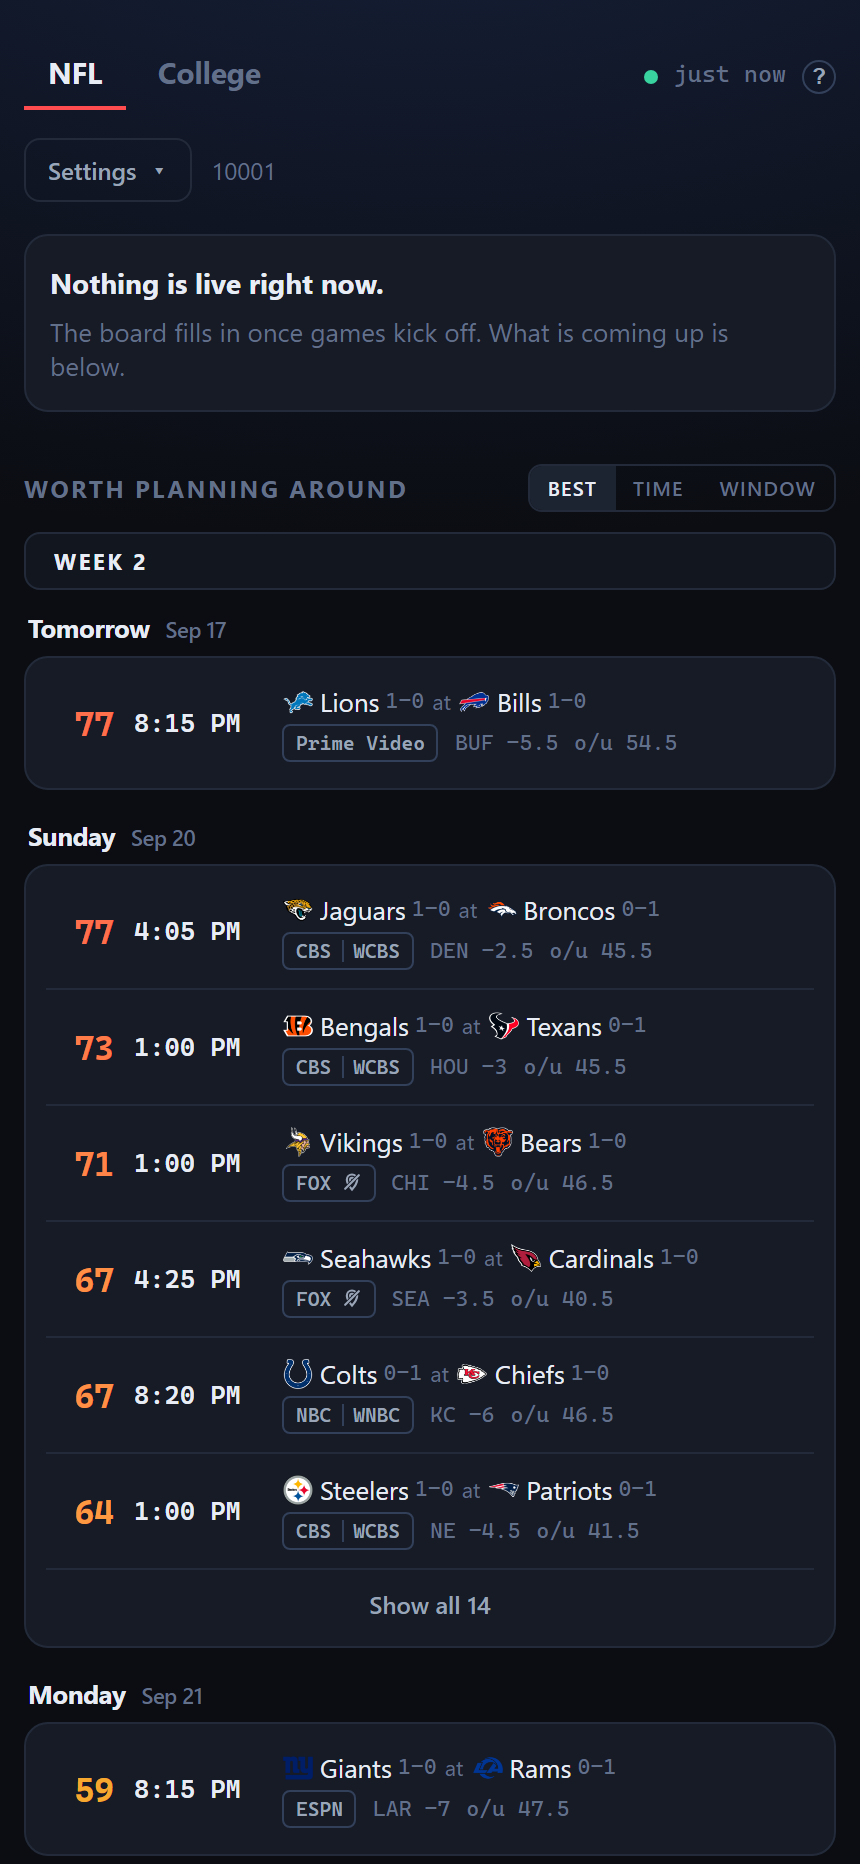
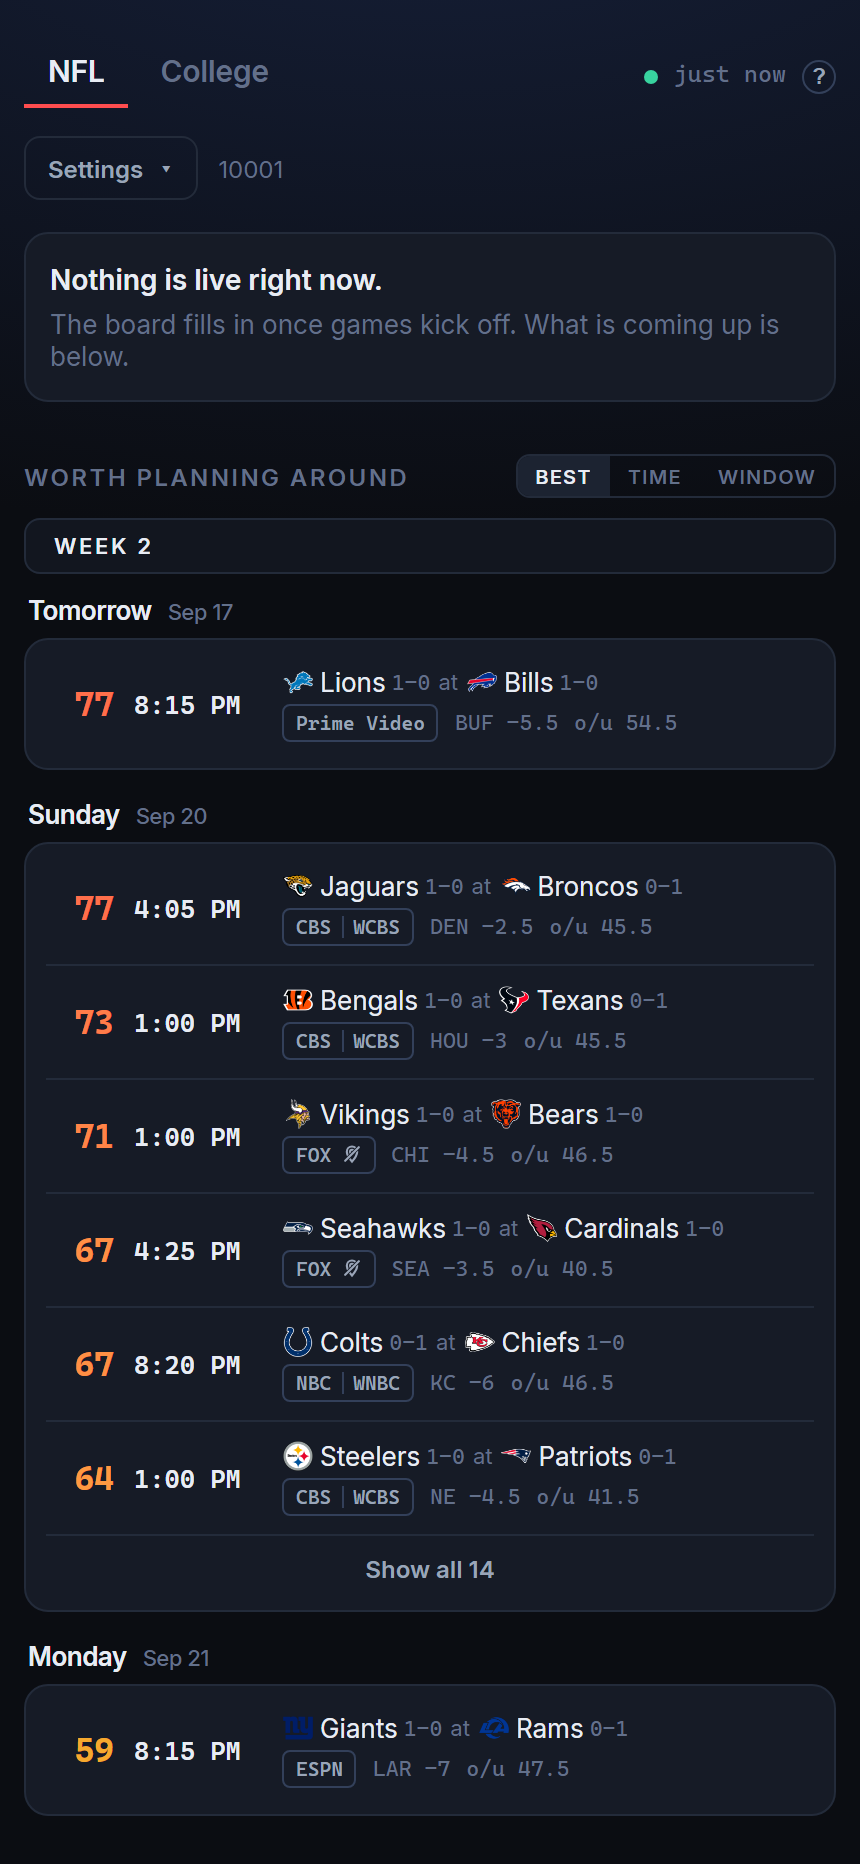
Head the live games with their week's band

diff --git a/src/App.svelte b/src/App.svelte
@@ -1,5 +1,5 @@
 <script lang="ts">
-  import type { Game, League, Snapshot } from "../shared/types";
+  import type { Game, League, Snapshot, WeekInfo } from "../shared/types";
   import { WEIGHTS, combine } from "../shared/weights";
   import { fetchSnapshot, openBoardStream } from "./lib/api";
   import { dayDate, dayKey, dayLabel, relativeTime, scoreColor } from "./lib/format";
@@ -693,6 +693,13 @@
    * control that reorders nothing is a control that has to be explained.
    */
   const windowsOffered = $derived(upcomingByDay.some((day) => day.windows !== null));
+
+  /* The week of what is live, which heads the board while it is on. Only then:
+     above "Nothing is live" the band headed nothing and sat apart from the games
+     it named, so with nothing on it stays with the planning list's first day.
+     Micah: "otherwise it's kind of disconnected from the important content". */
+  const currentWeek = $derived(live[0]?.week ?? null);
+  const currentWeekInfo = $derived(currentWeek ? snapshot?.weeks?.[currentWeek] : undefined);
   /* Chosen once and then the slate moved on. The preference is kept, so it comes
      back on its own next Sunday, but the list has to render as something today. */
   const groupByWindow = $derived(prefs.upcomingOrder === "window" && windowsOffered);
@@ -804,6 +811,22 @@
   <p class="empty">Loading the slate...</p>
 {/if}
 
+{#snippet weekBand(info: WeekInfo, where: "top" | "first" | "later")}
+  <div class="week-band" class:top={where === "top"} class:first={where === "first"}>
+    <span class="week-name">{info.label}</span>
+    {#if info.byes.length > 0}
+      <span class="byes">{info.byeLabel}<span class="mono">{info.byes.join(" ")}</span></span>
+    {/if}
+  </div>
+{/snippet}
+
+<!-- The week of the live games, above them, since its byes matter most while that
+     week's games are on. The planning list marks the weeks after it, where one
+     ends and the next begins. -->
+{#if currentWeekInfo}
+  {@render weekBand(currentWeekInfo, "top")}
+{/if}
+
 {#if top}
   <section class="hero">
     <div class="hero-label">
@@ -896,18 +919,13 @@
       </h2>
       {#each upcomingByDay as day, i (day.key)}
         {@const week =
-          day.week !== null && day.week !== upcomingByDay[i - 1]?.week
+          day.week !== null && day.week !== (i === 0 ? currentWeek : upcomingByDay[i - 1].week)
             ? snapshot?.weeks?.[day.week]
             : undefined}
-        <!-- Above the week's first day still to come, so once Thursday night has
-             kicked off it moves down to Sunday with the rest of the week. -->
+        <!-- Where a new week starts. The week the board is already in has its band
+             at the top, so the first day here only gets one if it is the next. -->
         {#if week}
-          <div class="week-band" class:first={i === 0}>
-            <span class="week-name">{week.label}</span>
-            {#if week.byes.length > 0}
-              <span class="byes">{week.byeLabel}<span class="mono">{week.byes.join(" ")}</span></span>
-            {/if}
-          </div>
+          {@render weekBand(week, i === 0 ? "first" : "later")}
         {/if}
         <div class="day-group">
           <h3 class="day-head">
@@ -1327,6 +1345,9 @@
   }
   .week-band.first {
     margin-top: 0;
+  }
+  .week-band.top {
+    margin: 0 0 16px;
   }
   .week-name {
     font-size: 11px;

diff --git a/server/poller.ts b/server/poller.ts
@@ -1130,7 +1130,8 @@ export class LeaguePoller {
     updatedAt: new Date(now).toISOString(),
     season: this.season,
     week: this.week,
-    weeks: this.weeksFor(upcoming),
+    // Live games too, since the week the board is in heads the live games.
+    weeks: this.weeksFor([...live, ...upcoming]),
     live,
     upcoming,
     recent,

diff --git a/docs/design-notes.md b/docs/design-notes.md
@@ -2402,6 +2402,14 @@ The pill set the text a few pixels off the column every other line starts on, an
 cards' was what fixed it. It sits above the week's first day still to come, so after Thursday
 night the byes move down to Sunday, where they matter.
 
+**The current week moved to the top (2026-10-18).** Micah: "should we move the week and bye info
+above the live games?" On a Sunday the byes matter most while the games are on, and they sat below
+every live card. Only the week the board is in moved: the planning list's bands are what mark where
+one week ends and the next begins, so a later week still gets its band there, and the first planning
+day gets one only if it starts a new week. Only while games are live, though: with nothing on, a top
+band above "Nothing is live right now" headed nothing, and Micah called it "kind of disconnected
+from the important content", so then it stays on the planning list's first day as before.
+
 ## Clinch marks (2026-10-08)
 
 Asked while the bye line was being built: "other symbols for other clinchings? should we add these

diff --git a/README.md b/README.md
@@ -39,7 +39,8 @@ window the naming does not fit keeps its kickoff time. It appears only on days w
 actually form windows, which in practice means the NFL: a Saturday in college spans eleven distinct
 kickoff hours and has none.
 Each row shows kickoff time, the line, the over/under and the network, and where the game is being
-played when that is outside the United States. Each week of the season has a heading with ESPN's
+played when that is outside the United States. While games are live their week heads the board,
+above them, and the planning list marks each later week where it starts, both with ESPN's
 name for it, "Week 6", "Wild Card" or "Super Bowl", and in the NFL the teams on bye that week, or
 on wild card weekend the teams ESPN has down as having clinched a first-round bye. College's
 conference title weekend reads **Championship week** and its whole postseason **Bowl season**, with
